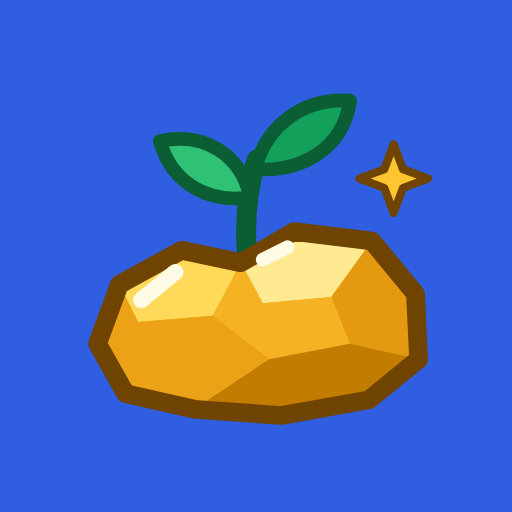
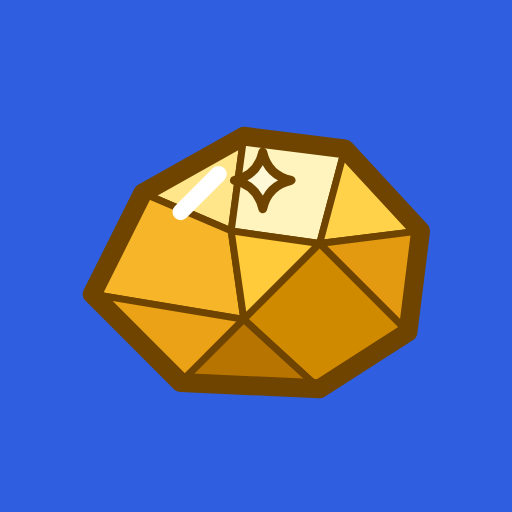
Nouvelle pépite à facettes, pépite qui grandit par palier, bourse expliquée en faces et en euros
- logo : pépite brute (symbole) et trio qui grandit (accueil), accent du é en éclat d'or
- signature : Pièce après pièce, ta pépite grandit ; fin du vocabulaire « pousse »
- accueil : la pépite grossit au bout de la barre de progression, tuile « Gagné tout seul »
- bourse côté enfant : chaque face du dé en euros sur sa tirelire, plus de pourcentages
- icônes et favicons régénérées, cache pepite-v32

Claude-Session: https://claude.ai/code/session_01FnvJs2a6yw4f7tqEzZ4wjv

Changed region(s): [[0.1562, 0.1562, 0.8438, 0.8438]]

diff --git a/app.js b/app.js
@@ -16,6 +16,7 @@ const dateFr = d => new Date(d).toLocaleDateString('fr-FR', { day: 'numeric', mo
 const daysSince = d => Math.floor((Date.now() - new Date(d)) / 864e5);
 const wk = d => { const x = new Date(d); x.setHours(0, 0, 0, 0); x.setDate(x.getDate() - ((x.getDay() + 6) % 7)); return x.getTime(); };
 const sameWeek = d => !!d && wk(d) === wk(new Date());
+const eurS = v => { const a = Math.abs(v); return a === 0 ? 'rien' : a < 0.1 ? 'presque rien' : (v > 0 ? '+' : '−') + f(a); };
 const pct = r => (r > 0 ? '+' : r < 0 ? '−' : '') + String(Math.abs(r)).replace('.', ',') + ' %';
 const num = v => parseFloat(String(v).replace(/[\s\u00a0\u202f]/g, '').replace(',', '.'));
 const de = n => (/^[aeiouyéèêh]/i.test(n) ? 'd’' : 'de ') + esc(n);
@@ -39,8 +40,11 @@ const POST = {
 const DICE = POST;
 const CAPS = [20, 50, 100, 200, 300, 500, 750, 1000, 1500, 2000, 3000, 5000, 7500, 10000, 15000, 20000];
 const PIPS = { 1: [[50, 50]], 2: [[28, 28], [72, 72]], 3: [[28, 28], [50, 50], [72, 72]], 4: [[28, 28], [72, 28], [28, 72], [72, 72]], 5: [[28, 28], [72, 28], [50, 50], [28, 72], [72, 72]], 6: [[28, 26], [72, 26], [28, 50], [72, 50], [28, 74], [72, 74]] };
-const LOGO = `<svg class="logo" viewBox="0 0 64 64" aria-hidden="true"><path d="M30.5 32C30 26 30.6 21 32 16.5" stroke="#0b5e33" stroke-width="3.2" stroke-linecap="round" fill="none"/><path d="M31 22.5C24.5 23.5 18.5 20.5 16.5 13.5 23.5 12 29.5 15.5 31 22.5Z" fill="#2fc275" stroke="#0b5e33" stroke-width="2.2" stroke-linejoin="round"/><path d="M31.8 18C33.5 11 39.5 6.5 47 7 46 14.5 39.5 18.5 31.8 18Z" fill="#13a05a" stroke="#0b5e33" stroke-width="2.2" stroke-linejoin="round"/><defs><clipPath id="nc"><path d="M6.5 46 10 36.5 20 31 29.5 33 38 28 50.5 29.5 57.5 38 58 48.5 50 55 36 57.5 22 56.5 11 54Z"/></clipPath></defs><g clip-path="url(#nc)"><rect width="64" height="64" fill="#f0a71a"/><path d="M10 36.5 20 31 29.5 33 25 41.5 13 42.5Z" fill="#ffd95a"/><path d="M29.5 33 38 28 50.5 29.5 44 38.5 33 39.5Z" fill="#ffe991"/><path d="M50.5 29.5 57.5 38 58 48.5 47 46 44 38.5Z" fill="#e39a10"/><path d="M25 41.5 29.5 33 33 39.5 44 38.5 47 46 34 48.5Z" fill="#f5b323"/><path d="M6.5 46 10 36.5 13 42.5 25 41.5 34 48.5 22 56.5 11 54Z" fill="#eba216"/><path d="M34 48.5 47 46 58 48.5 50 55 36 57.5 22 56.5Z" fill="#c27c00"/></g><path d="M6.5 46 10 36.5 20 31 29.5 33 38 28 50.5 29.5 57.5 38 58 48.5 50 55 36 57.5 22 56.5 11 54Z" fill="none" stroke="#6e4400" stroke-width="3" stroke-linejoin="round"/><path d="M13.5 39 19 34.5" stroke="#fffbe6" stroke-width="2.6" stroke-linecap="round"/><path d="M33 32.5 37 30.5" stroke="#fffbe6" stroke-width="2.2" stroke-linecap="round"/><path d="M54 14l1.5 4 4 1.5-4 1.5-1.5 4-1.5-4-4-1.5 4-1.5z" fill="#ffc531" stroke="#6e4400" stroke-width="1.3" stroke-linejoin="round"/></svg>`;
-const WM = `<svg class="wm" role="img" aria-label="Pépite" viewBox="-10 -1010 2892 1260"><path d="M126 8Q81 8 62.0 -5.5Q43 -19 39.0 -40.5Q35 -62 35 -84V-600Q35 -622 39.0 -643.0Q43 -664 62.0 -677.5Q81 -691 127 -691H326Q364 -691 408.0 -675.5Q452 -660 491.5 -628.0Q531 -596 556.0 -548.0Q581 -500 581 -434Q581 -369 556.0 -321.0Q531 -273 491.5 -241.5Q452 -210 408.0 -194.5Q364 -179 325 -179H218V-83Q218 -61 214.0 -40.0Q210 -19 191.0 -5.5Q172 8 126 8ZM218 -362H326Q339 -362 356.0 -368.5Q373 -375 386.0 -391.0Q399 -407 399 -435Q399 -456 389.0 -472.5Q379 -489 362.5 -498.5Q346 -508 325 -508H218Z M883 20Q808 20 756.0 -4.5Q704 -29 672.0 -68.5Q640 -108 625.0 -154.0Q610 -200 610 -243Q610 -322 645.0 -382.0Q680 -442 742.0 -476.0Q804 -510 884 -510Q946 -510 990.0 -490.0Q1034 -470 1061.5 -439.0Q1089 -408 1102.0 -373.0Q1115 -338 1115 -308Q1115 -251 1087.0 -221.0Q1059 -191 1015 -191H802Q806 -175 818.5 -163.5Q831 -152 850.0 -145.5Q869 -139 891 -139Q913 -139 930.0 -141.5Q947 -144 959.5 -148.0Q972 -152 982.5 -156.0Q993 -160 1001.5 -162.5Q1010 -165 1018 -165Q1036 -165 1051.0 -153.0Q1066 -141 1078 -117Q1085 -104 1088.0 -92.5Q1091 -81 1091 -71Q1091 -41 1066.5 -21.0Q1042 -1 996.0 9.5Q950 20 883 20ZM802 -285H914Q928 -285 934.5 -291.0Q941 -297 941 -309Q941 -322 933.5 -331.0Q926 -340 913.0 -344.5Q900 -349 882 -349Q858 -349 840.0 -339.5Q822 -330 812.5 -315.5Q803 -301 802 -285Z M1430 -3Q1381 -3 1345 -23Q1340 -26 1335 -29V132Q1337 154 1332.5 174.5Q1328 195 1309.0 208.0Q1290 221 1245 221Q1201 221 1182.0 208.0Q1163 195 1159.5 175.0Q1156 155 1156 133V-410Q1156 -432 1159.5 -452.0Q1163 -472 1181.5 -485.5Q1200 -499 1244 -499Q1279 -499 1302 -490Q1321 -482 1331 -467Q1339 -473 1347 -478Q1382 -498 1430 -498Q1474 -498 1515.5 -477.0Q1557 -456 1590.0 -420.5Q1623 -385 1642.0 -340.0Q1661 -295 1661 -247Q1661 -197 1642.0 -152.5Q1623 -108 1590.5 -74.5Q1558 -41 1516.5 -22.0Q1475 -3 1430 -3ZM1406 -173Q1426 -173 1442.5 -183.0Q1459 -193 1469.0 -209.5Q1479 -226 1479 -245Q1479 -265 1469.5 -281.5Q1460 -298 1443.5 -307.5Q1427 -317 1407.0 -317.0Q1387 -317 1370.5 -307.0Q1354 -297 1344.5 -281.0Q1335 -265 1335 -245Q1335 -226 1345.0 -209.5Q1355 -193 1371.0 -183.0Q1387 -173 1406 -173Z M1789 9Q1744 9 1725.0 -4.5Q1706 -18 1702.5 -39.0Q1699 -60 1699 -82V-408Q1699 -430 1703.0 -450.5Q1707 -471 1726.0 -484.5Q1745 -498 1790 -498Q1835 -498 1853.5 -484.5Q1872 -471 1876.0 -450.0Q1880 -429 1880 -406V-81Q1880 -59 1876.0 -38.0Q1872 -17 1853.5 -4.0Q1835 9 1789 9Z M2210 9Q2157 9 2118.0 -3.0Q2079 -15 2053.5 -40.0Q2028 -65 2015.5 -103.0Q2003 -141 2003 -192V-319H1978Q1944 -321 1931.0 -341.0Q1918 -361 1918 -407Q1918 -450 1934.0 -471.5Q1950 -493 1982 -493H2003V-580Q2003 -603 2007.0 -622.5Q2011 -642 2030.0 -654.5Q2049 -667 2094 -667Q2138 -667 2157.0 -653.5Q2176 -640 2180.0 -619.0Q2184 -598 2184 -576V-496L2237 -498Q2259 -498 2279.5 -494.0Q2300 -490 2313.5 -471.0Q2327 -452 2327 -406Q2327 -364 2313.5 -345.0Q2300 -326 2279.5 -321.0Q2259 -316 2236 -316L2184 -317V-201Q2184 -190 2185.5 -182.5Q2187 -175 2190.0 -171.0Q2193 -167 2198.0 -165.0Q2203 -163 2211 -163Q2237 -163 2257.5 -159.0Q2278 -155 2289.5 -138.0Q2301 -121 2301 -81Q2301 -36 2287.0 -17.0Q2273 2 2252.0 5.5Q2231 9 2210 9Z M2625 20Q2550 20 2498.0 -4.5Q2446 -29 2414.0 -68.5Q2382 -108 2367.0 -154.0Q2352 -200 2352 -243Q2352 -322 2387.0 -382.0Q2422 -442 2484.0 -476.0Q2546 -510 2626 -510Q2688 -510 2732.0 -490.0Q2776 -470 2803.5 -439.0Q2831 -408 2844.0 -373.0Q2857 -338 2857 -308Q2857 -251 2829.0 -221.0Q2801 -191 2757 -191H2544Q2548 -175 2560.5 -163.5Q2573 -152 2592.0 -145.5Q2611 -139 2633 -139Q2655 -139 2672.0 -141.5Q2689 -144 2701.5 -148.0Q2714 -152 2724.5 -156.0Q2735 -160 2743.5 -162.5Q2752 -165 2760 -165Q2778 -165 2793.0 -153.0Q2808 -141 2820 -117Q2827 -104 2830.0 -92.5Q2833 -81 2833 -71Q2833 -41 2808.5 -21.0Q2784 -1 2738.0 9.5Q2692 20 2625 20ZM2544 -285H2656Q2670 -285 2676.5 -291.0Q2683 -297 2683 -309Q2683 -322 2675.5 -331.0Q2668 -340 2655.0 -344.5Q2642 -349 2624 -349Q2600 -349 2582.0 -339.5Q2564 -330 2554.5 -315.5Q2545 -301 2544 -285Z" fill="currentColor"/><path d="M752.5 -590C782.5 -720 932.5 -770 1022.5 -735C992.5 -610 862.5 -550 752.5 -590Z" fill="#13a05a"/><g transform="translate(1642.3 -837.8) scale(4.6)"><defs><clipPath id="wn"><path d="M6.5 46 10 36.5 20 31 29.5 33 38 28 50.5 29.5 57.5 38 58 48.5 50 55 36 57.5 22 56.5 11 54Z"/></clipPath></defs><g clip-path="url(#wn)"><rect width="64" height="64" fill="#f0a71a"/><path d="M10 36.5 20 31 29.5 33 25 41.5 13 42.5Z" fill="#ffd95a"/><path d="M29.5 33 38 28 50.5 29.5 44 38.5 33 39.5Z" fill="#ffe991"/><path d="M50.5 29.5 57.5 38 58 48.5 47 46 44 38.5Z" fill="#e39a10"/><path d="M25 41.5 29.5 33 33 39.5 44 38.5 47 46 34 48.5Z" fill="#f5b323"/><path d="M6.5 46 10 36.5 13 42.5 25 41.5 34 48.5 22 56.5 11 54Z" fill="#eba216"/><path d="M34 48.5 47 46 58 48.5 50 55 36 57.5 22 56.5Z" fill="#c27c00"/></g><path d="M6.5 46 10 36.5 20 31 29.5 33 38 28 50.5 29.5 57.5 38 58 48.5 50 55 36 57.5 22 56.5 11 54Z" fill="none" stroke="#6e4400" stroke-width="3.4" stroke-linejoin="round"/><path d="M13.5 39 19 34.5" stroke="#fffbe6" stroke-width="2.6" stroke-linecap="round"/><path d="M33 32.5 37 30.5" stroke="#fffbe6" stroke-width="2.2" stroke-linecap="round"/></g></svg>`;
+const NUGB = `<g transform=""><path d="M14 24 30 15 28 30Z" fill="#ffe68a" stroke="#6e4400" stroke-width="1.1" stroke-linejoin="round"/><path d="M30 15 46 17 42 32 28 30Z" fill="#fff4bd" stroke="#6e4400" stroke-width="1.1" stroke-linejoin="round"/><path d="M46 17 58 30 42 32Z" fill="#ffd24a" stroke="#6e4400" stroke-width="1.1" stroke-linejoin="round"/><path d="M6 40 14 24 28 30 30 44Z" fill="#f7b52a" stroke="#6e4400" stroke-width="1.1" stroke-linejoin="round"/><path d="M28 30 42 32 30 44Z" fill="#ffcb3a" stroke="#6e4400" stroke-width="1.1" stroke-linejoin="round"/><path d="M58 30 56 46 42 32Z" fill="#e39a10" stroke="#6e4400" stroke-width="1.1" stroke-linejoin="round"/><path d="M42 32 56 46 42 55 30 44Z" fill="#d08a00" stroke="#6e4400" stroke-width="1.1" stroke-linejoin="round"/><path d="M6 40 30 44 20 54Z" fill="#eba216" stroke="#6e4400" stroke-width="1.1" stroke-linejoin="round"/><path d="M30 44 42 55 20 54Z" fill="#b87400" stroke="#6e4400" stroke-width="1.1" stroke-linejoin="round"/></g><path transform="" d="M6 40 14 24 30 15 46 17 58 30 56 46 42 55 20 54Z" fill="none" stroke="#6e4400" stroke-width="3" stroke-linejoin="round"/><g transform=""><path d="M20 27 26 21" stroke="#fff" stroke-width="2.6" stroke-linecap="round"/><path d="M33 17.5Q33.81 21.19 37.5 22Q33.81 22.81 33 26.5Q32.19 22.81 28.5 22Q32.19 21.19 33 17.5Z" fill="#fff8d6" stroke="#6e4400" stroke-width="1.4" stroke-linejoin="round"/></g>`;
+const NUG = (cls, lbl) => `<svg class="${cls}" viewBox="2 8 60 52" ${lbl ? `role="img" aria-label="${lbl}"` : 'aria-hidden="true"'}>${NUGB}</svg>`;
+const LOGO = NUG('logo');
+const LOGOBIG = `<svg class="logo big" viewBox="0 14 124 50" aria-hidden="true"><g transform="translate(0 38) scale(.4)"><path d="M14 24 30 15 28 30Z" fill="#ffe68a" stroke="#6e4400" stroke-width="1.1" stroke-linejoin="round"/><path d="M30 15 46 17 42 32 28 30Z" fill="#fff4bd" stroke="#6e4400" stroke-width="1.1" stroke-linejoin="round"/><path d="M46 17 58 30 42 32Z" fill="#ffd24a" stroke="#6e4400" stroke-width="1.1" stroke-linejoin="round"/><path d="M6 40 14 24 28 30 30 44Z" fill="#f7b52a" stroke="#6e4400" stroke-width="1.1" stroke-linejoin="round"/><path d="M28 30 42 32 30 44Z" fill="#ffcb3a" stroke="#6e4400" stroke-width="1.1" stroke-linejoin="round"/><path d="M58 30 56 46 42 32Z" fill="#e39a10" stroke="#6e4400" stroke-width="1.1" stroke-linejoin="round"/><path d="M42 32 56 46 42 55 30 44Z" fill="#d08a00" stroke="#6e4400" stroke-width="1.1" stroke-linejoin="round"/><path d="M6 40 30 44 20 54Z" fill="#eba216" stroke="#6e4400" stroke-width="1.1" stroke-linejoin="round"/><path d="M30 44 42 55 20 54Z" fill="#b87400" stroke="#6e4400" stroke-width="1.1" stroke-linejoin="round"/></g><path transform="translate(0 38) scale(.4)" d="M6 40 14 24 30 15 46 17 58 30 56 46 42 55 20 54Z" fill="none" stroke="#6e4400" stroke-width="3" stroke-linejoin="round"/><g transform="translate(24 24.25) scale(.65)"><path d="M14 24 30 15 28 30Z" fill="#ffe68a" stroke="#6e4400" stroke-width="1.1" stroke-linejoin="round"/><path d="M30 15 46 17 42 32 28 30Z" fill="#fff4bd" stroke="#6e4400" stroke-width="1.1" stroke-linejoin="round"/><path d="M46 17 58 30 42 32Z" fill="#ffd24a" stroke="#6e4400" stroke-width="1.1" stroke-linejoin="round"/><path d="M6 40 14 24 28 30 30 44Z" fill="#f7b52a" stroke="#6e4400" stroke-width="1.1" stroke-linejoin="round"/><path d="M28 30 42 32 30 44Z" fill="#ffcb3a" stroke="#6e4400" stroke-width="1.1" stroke-linejoin="round"/><path d="M58 30 56 46 42 32Z" fill="#e39a10" stroke="#6e4400" stroke-width="1.1" stroke-linejoin="round"/><path d="M42 32 56 46 42 55 30 44Z" fill="#d08a00" stroke="#6e4400" stroke-width="1.1" stroke-linejoin="round"/><path d="M6 40 30 44 20 54Z" fill="#eba216" stroke="#6e4400" stroke-width="1.1" stroke-linejoin="round"/><path d="M30 44 42 55 20 54Z" fill="#b87400" stroke="#6e4400" stroke-width="1.1" stroke-linejoin="round"/></g><path transform="translate(24 24.25) scale(.65)" d="M6 40 14 24 30 15 46 17 58 30 56 46 42 55 20 54Z" fill="none" stroke="#6e4400" stroke-width="3" stroke-linejoin="round"/><g transform="translate(62 5) scale(1)"><path d="M14 24 30 15 28 30Z" fill="#ffe68a" stroke="#6e4400" stroke-width="1.1" stroke-linejoin="round"/><path d="M30 15 46 17 42 32 28 30Z" fill="#fff4bd" stroke="#6e4400" stroke-width="1.1" stroke-linejoin="round"/><path d="M46 17 58 30 42 32Z" fill="#ffd24a" stroke="#6e4400" stroke-width="1.1" stroke-linejoin="round"/><path d="M6 40 14 24 28 30 30 44Z" fill="#f7b52a" stroke="#6e4400" stroke-width="1.1" stroke-linejoin="round"/><path d="M28 30 42 32 30 44Z" fill="#ffcb3a" stroke="#6e4400" stroke-width="1.1" stroke-linejoin="round"/><path d="M58 30 56 46 42 32Z" fill="#e39a10" stroke="#6e4400" stroke-width="1.1" stroke-linejoin="round"/><path d="M42 32 56 46 42 55 30 44Z" fill="#d08a00" stroke="#6e4400" stroke-width="1.1" stroke-linejoin="round"/><path d="M6 40 30 44 20 54Z" fill="#eba216" stroke="#6e4400" stroke-width="1.1" stroke-linejoin="round"/><path d="M30 44 42 55 20 54Z" fill="#b87400" stroke="#6e4400" stroke-width="1.1" stroke-linejoin="round"/></g><path transform="translate(62 5) scale(1)" d="M6 40 14 24 30 15 46 17 58 30 56 46 42 55 20 54Z" fill="none" stroke="#6e4400" stroke-width="3" stroke-linejoin="round"/><g transform="translate(62 5) scale(1)"><path d="M20 27 26 21" stroke="#fff" stroke-width="2.6" stroke-linecap="round"/><path d="M33 17.5Q33.81 21.19 37.5 22Q33.81 22.81 33 26.5Q32.19 22.81 28.5 22Q32.19 21.19 33 17.5Z" fill="#fff8d6" stroke="#6e4400" stroke-width="1.4" stroke-linejoin="round"/></g></svg>`;
+const WM = `<svg class="wm" role="img" aria-label="Pépite" viewBox="-10 -1010 2892 1260"><path d="M126 8Q81 8 62.0 -5.5Q43 -19 39.0 -40.5Q35 -62 35 -84V-600Q35 -622 39.0 -643.0Q43 -664 62.0 -677.5Q81 -691 127 -691H326Q364 -691 408.0 -675.5Q452 -660 491.5 -628.0Q531 -596 556.0 -548.0Q581 -500 581 -434Q581 -369 556.0 -321.0Q531 -273 491.5 -241.5Q452 -210 408.0 -194.5Q364 -179 325 -179H218V-83Q218 -61 214.0 -40.0Q210 -19 191.0 -5.5Q172 8 126 8ZM218 -362H326Q339 -362 356.0 -368.5Q373 -375 386.0 -391.0Q399 -407 399 -435Q399 -456 389.0 -472.5Q379 -489 362.5 -498.5Q346 -508 325 -508H218Z M883 20Q808 20 756.0 -4.5Q704 -29 672.0 -68.5Q640 -108 625.0 -154.0Q610 -200 610 -243Q610 -322 645.0 -382.0Q680 -442 742.0 -476.0Q804 -510 884 -510Q946 -510 990.0 -490.0Q1034 -470 1061.5 -439.0Q1089 -408 1102.0 -373.0Q1115 -338 1115 -308Q1115 -251 1087.0 -221.0Q1059 -191 1015 -191H802Q806 -175 818.5 -163.5Q831 -152 850.0 -145.5Q869 -139 891 -139Q913 -139 930.0 -141.5Q947 -144 959.5 -148.0Q972 -152 982.5 -156.0Q993 -160 1001.5 -162.5Q1010 -165 1018 -165Q1036 -165 1051.0 -153.0Q1066 -141 1078 -117Q1085 -104 1088.0 -92.5Q1091 -81 1091 -71Q1091 -41 1066.5 -21.0Q1042 -1 996.0 9.5Q950 20 883 20ZM802 -285H914Q928 -285 934.5 -291.0Q941 -297 941 -309Q941 -322 933.5 -331.0Q926 -340 913.0 -344.5Q900 -349 882 -349Q858 -349 840.0 -339.5Q822 -330 812.5 -315.5Q803 -301 802 -285Z M1430 -3Q1381 -3 1345 -23Q1340 -26 1335 -29V132Q1337 154 1332.5 174.5Q1328 195 1309.0 208.0Q1290 221 1245 221Q1201 221 1182.0 208.0Q1163 195 1159.5 175.0Q1156 155 1156 133V-410Q1156 -432 1159.5 -452.0Q1163 -472 1181.5 -485.5Q1200 -499 1244 -499Q1279 -499 1302 -490Q1321 -482 1331 -467Q1339 -473 1347 -478Q1382 -498 1430 -498Q1474 -498 1515.5 -477.0Q1557 -456 1590.0 -420.5Q1623 -385 1642.0 -340.0Q1661 -295 1661 -247Q1661 -197 1642.0 -152.5Q1623 -108 1590.5 -74.5Q1558 -41 1516.5 -22.0Q1475 -3 1430 -3ZM1406 -173Q1426 -173 1442.5 -183.0Q1459 -193 1469.0 -209.5Q1479 -226 1479 -245Q1479 -265 1469.5 -281.5Q1460 -298 1443.5 -307.5Q1427 -317 1407.0 -317.0Q1387 -317 1370.5 -307.0Q1354 -297 1344.5 -281.0Q1335 -265 1335 -245Q1335 -226 1345.0 -209.5Q1355 -193 1371.0 -183.0Q1387 -173 1406 -173Z M1789 9Q1744 9 1725.0 -4.5Q1706 -18 1702.5 -39.0Q1699 -60 1699 -82V-408Q1699 -430 1703.0 -450.5Q1707 -471 1726.0 -484.5Q1745 -498 1790 -498Q1835 -498 1853.5 -484.5Q1872 -471 1876.0 -450.0Q1880 -429 1880 -406V-81Q1880 -59 1876.0 -38.0Q1872 -17 1853.5 -4.0Q1835 9 1789 9Z M2210 9Q2157 9 2118.0 -3.0Q2079 -15 2053.5 -40.0Q2028 -65 2015.5 -103.0Q2003 -141 2003 -192V-319H1978Q1944 -321 1931.0 -341.0Q1918 -361 1918 -407Q1918 -450 1934.0 -471.5Q1950 -493 1982 -493H2003V-580Q2003 -603 2007.0 -622.5Q2011 -642 2030.0 -654.5Q2049 -667 2094 -667Q2138 -667 2157.0 -653.5Q2176 -640 2180.0 -619.0Q2184 -598 2184 -576V-496L2237 -498Q2259 -498 2279.5 -494.0Q2300 -490 2313.5 -471.0Q2327 -452 2327 -406Q2327 -364 2313.5 -345.0Q2300 -326 2279.5 -321.0Q2259 -316 2236 -316L2184 -317V-201Q2184 -190 2185.5 -182.5Q2187 -175 2190.0 -171.0Q2193 -167 2198.0 -165.0Q2203 -163 2211 -163Q2237 -163 2257.5 -159.0Q2278 -155 2289.5 -138.0Q2301 -121 2301 -81Q2301 -36 2287.0 -17.0Q2273 2 2252.0 5.5Q2231 9 2210 9Z M2625 20Q2550 20 2498.0 -4.5Q2446 -29 2414.0 -68.5Q2382 -108 2367.0 -154.0Q2352 -200 2352 -243Q2352 -322 2387.0 -382.0Q2422 -442 2484.0 -476.0Q2546 -510 2626 -510Q2688 -510 2732.0 -490.0Q2776 -470 2803.5 -439.0Q2831 -408 2844.0 -373.0Q2857 -338 2857 -308Q2857 -251 2829.0 -221.0Q2801 -191 2757 -191H2544Q2548 -175 2560.5 -163.5Q2573 -152 2592.0 -145.5Q2611 -139 2633 -139Q2655 -139 2672.0 -141.5Q2689 -144 2701.5 -148.0Q2714 -152 2724.5 -156.0Q2735 -160 2743.5 -162.5Q2752 -165 2760 -165Q2778 -165 2793.0 -153.0Q2808 -141 2820 -117Q2827 -104 2830.0 -92.5Q2833 -81 2833 -71Q2833 -41 2808.5 -21.0Q2784 -1 2738.0 9.5Q2692 20 2625 20ZM2544 -285H2656Q2670 -285 2676.5 -291.0Q2683 -297 2683 -309Q2683 -322 2675.5 -331.0Q2668 -340 2655.0 -344.5Q2642 -349 2624 -349Q2600 -349 2582.0 -339.5Q2564 -330 2554.5 -315.5Q2545 -301 2544 -285Z" fill="currentColor"/><path d="M760 -585 850 -760 1010 -745 920 -585Z" fill="#f5b323" stroke="#6e4400" stroke-width="22" stroke-linejoin="round"/><g transform="translate(1642.3 -837.8) scale(4.6)"><defs><clipPath id="wn"><path d="M6.5 46 10 36.5 20 31 29.5 33 38 28 50.5 29.5 57.5 38 58 48.5 50 55 36 57.5 22 56.5 11 54Z"/></clipPath></defs><g clip-path="url(#wn)"><rect width="64" height="64" fill="#f0a71a"/><path d="M10 36.5 20 31 29.5 33 25 41.5 13 42.5Z" fill="#ffd95a"/><path d="M29.5 33 38 28 50.5 29.5 44 38.5 33 39.5Z" fill="#ffe991"/><path d="M50.5 29.5 57.5 38 58 48.5 47 46 44 38.5Z" fill="#e39a10"/><path d="M25 41.5 29.5 33 33 39.5 44 38.5 47 46 34 48.5Z" fill="#f5b323"/><path d="M6.5 46 10 36.5 13 42.5 25 41.5 34 48.5 22 56.5 11 54Z" fill="#eba216"/><path d="M34 48.5 47 46 58 48.5 50 55 36 57.5 22 56.5Z" fill="#c27c00"/></g><path d="M6.5 46 10 36.5 20 31 29.5 33 38 28 50.5 29.5 57.5 38 58 48.5 50 55 36 57.5 22 56.5 11 54Z" fill="none" stroke="#6e4400" stroke-width="3.4" stroke-linejoin="round"/><path d="M13.5 39 19 34.5" stroke="#fffbe6" stroke-width="2.6" stroke-linecap="round"/><path d="M33 32.5 37 30.5" stroke="#fffbe6" stroke-width="2.2" stroke-linecap="round"/></g></svg>`;
 const WMFULL = `<span class="wmfull" role="img" aria-label="C’est Pépite"><span class="cest" aria-hidden="true">c’est</span>${WM.replace('role="img" aria-label="Pépite"', 'aria-hidden="true"')}</span>`;
 const I = {
   jar: '<svg viewBox="0 0 24 24" fill="none" stroke="currentColor" stroke-width="2" stroke-linecap="round" stroke-linejoin="round"><rect x="8" y="2.5" width="8" height="3" rx="1"/><path d="M6.5 7.5c0-1.1.9-2 2-2h7c1.1 0 2 .9 2 2V19a2.5 2.5 0 0 1-2.5 2.5h-6A2.5 2.5 0 0 1 6.5 19z"/><path d="M6.5 13.5h11"/></svg>',
@@ -203,12 +207,12 @@ ${reached ? star(14, 120, 13) + star(206, 170, 11) + star(196, 96, 7) + star(26,
 }
 
 /* ---------- vues ---------- */
-function splash(msg) { return `<div class="splash"><div>${LOGO}<h1 style="font-size:46px;margin-top:8px">${WMFULL}</h1><p class="soft">${esc(msg || 'L’argent de poche qui pousse')}</p></div></div>`; }
+function splash(msg) { return `<div class="splash"><div>${LOGOBIG}<h1 style="font-size:46px;margin-top:8px">${WMFULL}</h1><p class="soft">${esc(msg || 'Pièce après pièce, ta pépite grandit')}</p></div></div>`; }
 
 function loginView() {
   const up = loginMode === 'up';
-  return `<main class="view full"><div class="welcome">${LOGO}<h1>${WMFULL}</h1><p>L’argent de poche qui pousse</p></div>
-<div class="intro"><p class="story">Pièce après pièce, la tirelire se remplit… jusqu’à devenir une vraie pépite.</p><p>Pépite aide les parents à montrer à leurs enfants, avec leur argent de poche, pourquoi épargner et investir tôt change tout.</p><p class="soft small">Bonus, bourse et intérêts sont un jeu financé par vous, les parents : ce n’est pas un vrai placement.</p></div>
+  return `<main class="view full"><div class="welcome">${LOGOBIG}<h1>${WMFULL}</h1><p>Pièce après pièce, ta pépite grandit</p></div>
+<div class="intro"><p class="story">Semaine après semaine, la tirelire se remplit… jusqu’à devenir une vraie pépite.</p><p>Pépite aide les parents à montrer à leurs enfants, avec leur argent de poche, pourquoi épargner et investir tôt change tout.</p><p class="soft small">Bonus, bourse et intérêts sont un jeu financé par vous, les parents : ce n’est pas un vrai placement.</p></div>
 <div class="tabs2"><button data-act="lmode" data-m="in" aria-pressed="${!up}">J’ai un compte</button><button data-act="lmode" data-m="up" aria-pressed="${up}">Créer un compte</button></div>
 <form class="card" id="loginf" autocomplete="on">
 <h3>${up ? 'Créer le compte de la famille' : 'Connexion de cet appareil'}</h3>
@@ -225,7 +229,7 @@ function obView() {
   const o = ob, st = `<div class="stepper"><span>Étape ${o.step} sur 3 · ${['Bienvenue', 'Vos enfants', 'Les règles du jeu'][o.step - 1]}</span><div class="sbar"><i style="width:${(o.step / 3 * 100).toFixed(0)}%"></i></div></div>`;
   let body = '';
   if (o.step === 1) {
-    body = `${st}<div class="welcome">${LOGO}<h1>Bienvenue !</h1><p>Avec leur argent de poche, vos enfants découvrent pourquoi épargner et investir tôt change tout. Pièce après pièce, leur tirelire se remplit… jusqu’à devenir une vraie pépite.</p></div>
+    body = `${st}<div class="welcome">${LOGOBIG}<h1>Bienvenue !</h1><p>Avec leur argent de poche, vos enfants découvrent pourquoi épargner et investir tôt change tout. Pièce après pièce, leur tirelire se remplit… jusqu’à devenir une vraie pépite.</p></div>
 <div class="why"><div>${I.coin}<span><b>Une paie chaque semaine</b>Votre enfant décide librement ce qu’il fait de son argent : tout dépenser, tout placer, ou un peu des deux. Et s’il le place, il découvre peu à peu les arcanes de l’investissement.</span></div>
 <div>${I.die}<span><b>Un bonus et une bourse</b>Vous ajoutez un bonus sur l’argent qu’il place. Ensuite, chaque semaine, il peut lancer un dé qui fait varier sa tirelire, à la hausse ou à la baisse, comme les cours en Bourse. Il choisit lui-même son niveau de risque, ou décide de ne pas jouer.</span></div>
 <div>${I.flag}<span><b>Des projets et un horizon</b>Il se fixe un objectif, comme l’achat d’un vélo, et fait grossir sa pépite jusqu’à ses 18 ans.</span></div></div>
@@ -270,21 +274,26 @@ function tabbar() {
   return `<nav class="tabbar" aria-label="Navigation"><div>${tabs.map(([v, l, ic]) => `<button class="tab" data-act="go" data-v="${v}" ${view === v ? 'aria-current="page"' : ''}>${ic}${l}</button>`).join('')}</div></nav>`;
 }
 
+function growNug(prog) {
+  const st = prog >= 100 ? 4 : prog >= 75 ? 3 : prog >= 50 ? 2 : prog >= 25 ? 1 : 0, sc = [0.42, 0.55, 0.7, 0.85, 1][st];
+  const lbl = st === 4 ? 'Ta pépite est complète : c’est pépite !' : `Ta pépite : taille ${st + 1} sur 5`;
+  return `<svg class="gnug${st === 4 ? ' full' : ''}" viewBox="2 8 60 52" role="img" aria-label="${lbl}"><g transform="translate(${(32 - 32 * sc).toFixed(1)} ${(57 - 55 * sc).toFixed(1)}) scale(${sc})">${NUGB}</g></svg>`;
+}
 function homeView(k, t) {
   const g = goalOf(cur), J = jar(t, g), due = owed(cur).length, paid = due === 0, rolled = sameWeek(t.bourse && t.bourse.d);
   const prog = Math.min(100, Math.max(0, t.total / (g ? g.budget : J.cap) * 100));
   const hint = g ? (t.total >= g.budget ? `Objectif « ${esc(g.name)} » atteint !` : `Encore ${f(g.budget - t.total)} pour « ${esc(g.name)} »`) : (t.total >= J.cap ? `Palier de ${f(J.cap)} atteint !` : `Encore ${f(J.cap - t.total)} pour le palier de ${f(J.cap)}`);
   return `<section class="hero"><div><p class="hi">Salut ${esc(k.name)} !</p><p class="lbl">${g && t.total >= g.budget ? 'C’est pépite ! Ta tirelire est pleine' : 'Ta tirelire'}</p><div class="amount">${f(t.total)}</div>
-<div class="prog">${g ? '<b style="left:25%"></b><b style="left:50%"></b><b style="left:75%"></b>' : ''}<i style="width:${prog.toFixed(1)}%"></i></div><p class="small">${hint}</p></div>${J.svg}</section>
+<div class="progrow"><div class="prog">${g ? '<b style="left:25%"></b><b style="left:50%"></b><b style="left:75%"></b>' : ''}<i style="width:${prog.toFixed(1)}%"></i></div>${growNug(prog)}</div><p class="small">${hint}</p></div>${J.svg}</section>
 <div class="tiles"><div class="tile"><small><i style="background:var(--kid)"></i>Mon argent</small><b>${f(t.own)}</b></div>
 <div class="tile"><small><i style="background:var(--gold)"></i>Bonus ${P().de}</small><b>${f(t.bonus)}</b></div>
-<div class="tile"><small><i style="background:var(--grow)"></i>Mes pépites</small><b class="${t.gains < 0 ? 'neg' : 'g'}">${f(t.gains)}</b><span class="tsub">gagnées toutes seules</span></div>
+<div class="tile"><small><i style="background:var(--grow)"></i>Gagné tout seul</small><b class="${t.gains < 0 ? 'neg' : 'g'}">${f(t.gains)}</b></div>
 <div class="tile"><small><i style="background:var(--purse)"></i>Porte-monnaie à recevoir</small><b>${f(t.purseDue)}</b></div></div>
 ${t.out > 0 ? `<p class="soft small" style="margin:8px 4px 0">Projets réalisés : ${f(t.out)}</p>` : ''}
 <h3 class="sec">Mon projet</h3><div class="list"><button class="item" data-act="go" data-v="projet"><span class="ic" style="background:var(--kidt);color:var(--kidtxt)">${I.flag}</span><span>${g ? `<b>${esc(g.name)} : ${Math.floor(Math.min(1, Math.max(0, t.total) / g.budget) * 100)} %</b><small>${t.total >= g.budget ? 'Atteint : prépare ta présentation !' : `${f(Math.max(0, t.total))} sur ${f(g.budget)}`}</small>` : '<b>Choisis un projet</b><small>Un vélo, un jeu ? Fixe-toi un objectif.</small>'}</span><span class="end">${I.chev}</span></button></div>
 <h3 class="sec">Cette semaine</h3><div class="list">
 <button class="item" data-act="go" data-v="paie"><span class="ic" style="background:#fff3c4;color:#a87300">${I.coin}</span><span><b>Ma paie</b><small>${pauseOf(cur) ? 'En pause ' + untilTxt(pauseOf(cur)) : paid ? 'Rangée, bravo !' : due > 1 ? `${due} paies t’attendent` : `${k.weekly} pièce${k.weekly > 1 ? 's' : ''} t’attendent`}</small></span><span class="end ${paid && !pauseOf(cur) ? 'done' : ''}">${paid && !pauseOf(cur) ? I.check : I.chev}</span></button>
-<button class="item" data-act="go" data-v="bourse"><span class="ic" style="background:var(--glass)">${I.die}</span><span><b>La bourse</b><small>${postOf(cur) === 'none' ? 'Tu ne joues pas la bourse' : rolled ? `Dé ${t.bourse.face} : ${pct(t.bourse.rate)}` : 'Lance le dé de la semaine'}</small></span><span class="end ${rolled ? 'done' : ''}">${rolled ? I.check : I.chev}</span></button>
+<button class="item" data-act="go" data-v="bourse"><span class="ic" style="background:var(--glass)">${I.die}</span><span><b>La bourse</b><small>${postOf(cur) === 'none' ? 'Tu ne joues pas la bourse' : rolled ? `Dé ${t.bourse.face} : ${eurS(t.bourse.gain)}` : 'Lance le dé de la semaine'}</small></span><span class="end ${rolled ? 'done' : ''}">${rolled ? I.check : I.chev}</span></button>
 <button class="item" data-act="go" data-v="recu"><span class="ic" style="background:color-mix(in srgb,var(--grow) 14%,transparent);color:var(--grow)">${I.gift}</span><span><b>J’ai reçu de l’argent</b><small>Un cadeau, un anniversaire ?</small></span><span class="end">${I.chev}</span></button>
 <button class="item" data-act="go" data-v="carnet"><span class="ic" style="background:var(--glass)">${I.book}</span><span><b>Mon carnet</b><small>Tout ce qui est entré et sorti</small></span><span class="end">${I.chev}</span></button></div>`;
 }
@@ -320,30 +329,31 @@ function giftView(k) {
 <div class="list" style="margin-top:16px"><button class="btn ghost" data-act="gift" data-r="0" ${dis}>Tout dans mon porte-monnaie</button><button class="btn gold" data-act="gift" data-r="0.5" ${dis}>Moitié porte-monnaie, moitié tirelire</button><button class="btn gr" data-act="gift" data-r="1" ${dis}>Tout dans ma tirelire</button></div></section>`;
 }
 
+function miniDie(n, c) { return `<svg viewBox="0 0 100 100" width="30" height="30" aria-hidden="true"><rect x="6" y="6" width="88" height="88" rx="22" fill="#fff" stroke="${c}" stroke-width="8"/>${PIPS[n].map(([x, y]) => `<circle cx="${x}" cy="${y}" r="10" fill="#22203a"/>`).join('')}</svg>`; }
 function postureCard(p, sel, start, own) {
-  const d = POST[p], r = simYear(p, start);
+  const d = POST[p];
+  if (p === 'none') return `<button class="post ${sel ? 'on' : ''}" data-act="posture" data-n="none" aria-pressed="${sel}"><span class="ph"><b>${d.name}</b>${sel ? `<span class="tag">Ma stratégie</span>` : ''}</span><span class="pt">${d.txt}</span><span class="pr">Les 6 faces ne changent rien : ta tirelire ne bouge pas.</span><span class="soft small">${d.like}</span></button>`;
+  const v = d.faces.map(x => r2(start * x / 100)), up = v.filter(x => x > 0).length, dn = v.filter(x => x < 0).length, eq = 6 - up - dn;
+  const cnt = [up ? `<span class="g">${up} face${up > 1 ? 's' : ''} sur 6 ${up > 1 ? 'font' : 'fait'} gagner</span>` : '', eq ? `${eq} ne change${eq > 1 ? 'nt' : ''} rien` : '', dn ? `<span class="neg">${dn} ${dn > 1 ? 'font' : 'fait'} perdre</span>` : ''].filter(Boolean).join(' · ');
   return `<button class="post ${sel ? 'on' : ''}" data-act="posture" data-n="${p}" aria-pressed="${sel}">
 <span class="ph"><b>${d.name}</b>${sel ? `<span class="tag">Ma stratégie</span>` : ''}</span><span class="pt">${d.txt}</span>
-${p === 'none' ? `<span class="pr">Dans 1 an : <b>${f(start)}</b>, ni plus ni moins.</span>`
-  : `<span class="pfaces">${d.faces.map(v => `<i class="${v < 0 ? 'neg' : v > 0 ? 'g' : ''}">${pct(v)}</i>`).join('')}</span>
-<span class="pr">Dans 1 an, ${own ? 'avec tes' : 'pour'} ${f(start)} : <b>${f(r.mid)}</b> en moyenne. 8 fois sur 10 entre ${f(r.lo)} et ${f(r.hi)}.</span>
-<span class="pr ${r.loss >= 0.15 ? 'neg' : 'soft'}">Finir l’année en perte : ${lossTxt(r.loss)}${r.loss >= 0.15 ? ` (jusqu’à ${f(r.worst)} dans le pire des cas)` : ''}.</span>`}
-<span class="soft small">${d.like}</span></button>`;
+<span class="dfaces">${v.map((x, i) => `<span class="df ${x > 0 ? 'up' : x < 0 ? 'dn' : ''}">${miniDie(i + 1, x > 0 ? '#13a05a' : x < 0 ? '#e0434f' : '#a39cb8')}<b>${eurS(x)}</b></span>`).join('')}</span>
+<span class="pr">${cnt}</span><span class="soft small">${d.like}</span></button>`;
 }
 function bourseView(k, t) {
   const p = postOf(cur), rolled = sameWeek(t.bourse && t.bourse.d), recent = t.rolls.slice(-8).reverse();
   const own = t.total >= 20, start = own ? r2(t.total) : 100;
   const pays = F.parents === 'parents' || F.parents === 'papamaman' ? 'nt' : '';
-  return `<h2 class="title">La bourse de la semaine</h2><p class="lead">Une fois par semaine, un dé fait monter ou baisser ta tirelire. C’est un jeu : ce que ton argent gagne ici, c’est ${P().label.toLowerCase()} qui le paie${pays}.</p>
+  return `<h2 class="title">La bourse de la semaine</h2><p class="lead">Une fois par semaine, tu lances le dé : il fait monter ou baisser ta tirelire. C’est un jeu : ce que ton argent gagne ici, c’est ${P().label.toLowerCase()} qui le paie${pays}.</p>
 <section class="card dicebox">${p === 'none' ? `<p class="result">Tu ne joues pas la bourse.</p><p style="margin:0">Ta tirelire ne bouge pas : pas de gain, pas de perte. Tu peux changer d’avis quand tu veux, juste en dessous.</p>`
   : `<p class="soft small" style="margin:0">Ta stratégie : <b>${POST[p].name}</b></p><div id="die">${die(rolled ? t.bourse.face : 6, 132)}</div>
 ${rolled ? `<p class="result">Dé ${t.bourse.face} : ${t.bourse.rate < 0 ? 'semaine difficile' : t.bourse.rate === 0 ? 'semaine calme' : 'belle semaine'} !</p><p style="margin:0">Ta tirelire a ${t.bourse.gain < 0 ? 'perdu' : 'gagné'} <b class="${t.bourse.gain < 0 ? 'neg' : 'g'}">${f(Math.abs(t.bourse.gain))}</b>. Prochain lancer lundi.</p>`
     : t.total > 0 ? `<button class="btn full" data-act="roll" ${ready ? '' : 'disabled'}>Lancer le dé</button>` : `<p style="margin:0">Place d’abord quelques pièces dans ta tirelire : le dé agit sur ce qu’il y a dans ta tirelire.</p>`}
-${recent.length ? `<div class="recent">${recent.map(e => `<span class="${e.rate < 0 ? 'neg' : e.rate > 0 ? 'g' : ''}">${pct(e.rate)}</span>`).join('')}</div>` : ''}`}
+${recent.length ? `<div class="recent">${recent.map(e => `<span class="${e.gain < 0 ? 'neg' : e.gain > 0 ? 'g' : ''}">${eurS(e.gain)}</span>`).join('')}</div>` : ''}`}
 </section>
-<h3 class="sec">Choisis ta stratégie</h3><p class="lead">Plus tu prends de risques, plus tu peux gagner… ou perdre. ${own ? 'Calculé avec ce qu’il y a dans ta tirelire, si tu n’ajoutes rien.' : 'Exemple pour 100 € placés pendant 1 an.'}</p>
+<h3 class="sec">Choisis ta stratégie</h3><p class="lead">Chaque face du dé te dit ce qui arrive à ${own ? `ta tirelire de ${f(start)}` : 'une tirelire de 100 € (exemple)'} : en vert tu gagnes, en rouge tu perds. Compte les faces !</p>
 <div class="list">${Object.keys(POST).map(q => postureCard(q, q === p, start, own)).join('')}</div>
-<p class="soft small" style="margin:10px 4px 0">${rolled && p !== 'none' ? 'Un changement de stratégie comptera pour le prochain lancer. ' : ''}Les pourcentages du jeu sont plus généreux que la réalité, pour qu’on voie l’effet plus vite.</p>`;
+<p class="soft small" style="margin:10px 4px 0">${rolled && p !== 'none' ? 'Un changement de stratégie comptera pour le prochain lancer. ' : ''}Le dé est plus généreux que la vraie Bourse, pour qu’on voie l’effet plus vite.</p>`;
 }
 
 function futurView(k, t) {
@@ -364,7 +374,7 @@ ${projInv[cur] > k.weekly ? `<p class="soft small" style="margin:10px 0 0">C’e
 <div class="bars" style="grid-template-columns:repeat(${pts.length},minmax(0,1fr))">${bars}</div>
 <p class="cap">À <b>${Pt.age} ans</b>, ta tirelire contiendrait <b>${f(Pt.total)}</b> : ${f(Pt.own)} de ton argent, ${f(Pt.bonus)} de bonus ${P().de} et <b class="g">${f(Math.max(0, Pt.gains))} gagnés tout seuls</b>.</p>
 <p class="soft" style="margin:0">Regarde le vert : plus tu attends, plus il grossit vite, parce que ce que ton argent a gagné se met à gagner lui aussi.${full ? ` Avec ta paie de ${k.weekly} € chaque semaine, tu aurais ${f(full.total)} à ${full.age} ans.` : ''}</p>
-<p class="soft small" style="margin:8px 0 0">${postOf(cur) === 'none' ? 'Tu ne joues pas la bourse : seuls ton argent et le bonus comptent.' : `Calcul fait avec la moyenne de ta stratégie ${POST[postOf(cur)].name} (${pct(r2(meanOf(cur)))} par semaine). Le vrai résultat dépendra de tes lancers.`}</p></section>`;
+<p class="soft small" style="margin:8px 0 0">${postOf(cur) === 'none' ? 'Tu ne joues pas la bourse : seuls ton argent et le bonus comptent.' : `Calcul fait avec la moyenne de ta stratégie ${POST[postOf(cur)].name} : en vrai, tout dépendra de tes lancers de dé.`}</p></section>`;
 }
 
 function projetView(k, t) {
@@ -394,7 +404,7 @@ function carnetView(k) {
   const ev = evs(cur).slice(-40).reverse().map(e => {
     if (e.t === 'paie') return `<li><time>${dateFr(e.d)}</time><span>Paie : ${f(e.inv)} placés, ${f(e.dep)} dans le porte-monnaie</span><b class="g">+${f(e.inv + e.bonus)}</b></li>`;
     if (e.t === 'recu') return `<li><time>${dateFr(e.d)}</time><span>Reçu${e.from ? ' de ' + esc(e.from) : ''} : ${f(e.inv)} placés, ${f(e.dep)} dans le porte-monnaie</span><b class="g">+${f(e.inv + e.bonus)}</b></li>`;
-    if (e.t === 'bourse') return `<li><time>${dateFr(e.d)}</time><span>Bourse : dé ${e.face} (${pct(e.rate)})</span><b class="${e.gain < 0 ? 'neg' : 'g'}">${e.gain < 0 ? '−' : '+'}${f(Math.abs(e.gain))}</b></li>`;
+    if (e.t === 'bourse') return `<li><time>${dateFr(e.d)}</time><span>Bourse : dé ${e.face}</span><b class="${e.gain < 0 ? 'neg' : 'g'}">${e.gain < 0 ? '−' : '+'}${f(Math.abs(e.gain))}</b></li>`;
     if (e.t === 'posture') return `<li><time>${dateFr(e.d)}</time><span>Stratégie de bourse : ${POST[e.p] ? POST[e.p].name : e.p}</span><b class="soft">—</b></li>`;
     if (e.t === 'pause') return `<li><time>${dateFr(e.d)}</time><span>Paie mise en pause${e.reason ? ' : ' + esc(e.reason) : ''}</span><b class="soft">—</b></li>`;
     if (e.t === 'reprise') return `<li><time>${dateFr(e.d)}</time><span>Paie reprise</span><b class="soft">—</b></li>`;

diff --git a/app.css b/app.css
@@ -1,7 +1,7 @@
-/* Pépite : l'argent de poche qui pousse.
+/* Pépite : pièce après pièce, ta pépite grandit.
    VOICE: joyeux, net, à hauteur d'enfant ; gros boutons en relief, chiffres ronds
    IDEA: une appli de poche comme un jeu : un bocal qui se remplit, un dé de bourse, une pièce qui germe
-   COLOUR: crème chaud, couleur choisie pour chaque enfant, or pour le bonus, vert pour ce qui pousse
+   COLOUR: crème chaud, couleur choisie pour chaque enfant, or pour le bonus, vert pour ce qui est gagné tout seul
    TYPE: Fredoka pour les titres et les montants, Nunito pour le texte */
 :root{color-scheme:light dark;
   --bg:light-dark(#fff8ee,#14131d);--card:light-dark(#fff,#211f2e);--ink:light-dark(#22203a,#f7f2ea);
@@ -263,3 +263,15 @@ input:focus,select:focus{border-color:var(--kid);outline:none}
 .wmfull .cest{position:absolute;left:-.2em;top:.85em;font:600 .34em/1 Fredoka,Nunito,sans-serif;color:light-dark(#6e4400,#e0a63a);transform:rotate(-6deg);transform-origin:left bottom;letter-spacing:.3px}
 
 .tile .tsub{display:block;font-size:13px;color:var(--soft);font-weight:700;margin-top:-2px}
+/* pépite qui grandit */
+.splash svg.logo.big,.welcome svg.logo.big{width:180px;height:73px}
+.progrow{display:flex;align-items:center;gap:6px}.progrow .prog{flex:1;min-width:0;margin:0}
+.gnug{width:40px;height:35px;flex:none}
+.gnug.full{filter:drop-shadow(0 0 6px rgba(245,179,35,.8))}
+/* bourse en faces */
+.dfaces{display:grid;grid-template-columns:repeat(6,minmax(0,1fr));gap:4px;margin:8px 0 2px}
+.df{display:flex;flex-direction:column;align-items:center;gap:3px;border-radius:12px;padding:6px 2px;background:var(--glass)}
+.df b{font:700 12px/1.1 Nunito,sans-serif;color:var(--soft);text-align:center}
+.df.up{background:color-mix(in srgb,var(--grow) 14%,transparent)}.df.up b{color:var(--grow)}
+.df.dn{background:color-mix(in srgb,var(--red) 13%,transparent)}.df.dn b{color:var(--red)}
+.df svg{width:26px;height:26px}

diff --git a/index.html b/index.html
@@ -4,7 +4,7 @@
 <meta charset="utf-8">
 <meta name="viewport" content="width=device-width,initial-scale=1,viewport-fit=cover">
 <title>C’est Pépite</title>
-<meta name="description" content="C’est Pépite, l'argent de poche qui pousse : épargner, investir et voir son trésor grandir.">
+<meta name="description" content="C’est Pépite, pièce après pièce, ta pépite grandit. L'argent de poche pour apprendre à épargner et à investir.">
 <meta name="theme-color" content="#2f5fe0">
 <link rel="manifest" href="manifest.webmanifest">
 <link rel="icon" type="image/svg+xml" href="favicon.svg?v=2">

diff --git a/sw.js b/sw.js
@@ -1,5 +1,5 @@
 // Cache de l'application pour un démarrage rapide et hors ligne. Les données passent par Firebase.
-const CACHE = 'pepite-v31';
+const CACHE = 'pepite-v32';
 const SHELL = ['./', './index.html', './app.js', './app.css', './config.js', './vendor/idiomorph.esm.js', './manifest.webmanifest', './icons/icon-192.png', './icons/icon-512.png'];
 self.addEventListener('install', e => { e.waitUntil(caches.open(CACHE).then(c => c.addAll(SHELL)).then(() => self.skipWaiting())); });
 self.addEventListener('activate', e => {

diff --git a/README.md b/README.md
@@ -1,4 +1,4 @@
-# Pépite, l'argent de poche qui pousse
+# C'est Pépite : pièce après pièce, ta pépite grandit
 
 Application installable (PWA) qui apprend aux enfants à épargner et à investir : paie hebdomadaire en pièces, bocal qui se remplit, bonus des parents, bourse de la semaine au dé, projection jusqu'à 18 ans, argent reçu, suivi des virements vers le Livret A et mode enfant verrouillé par code.
 
